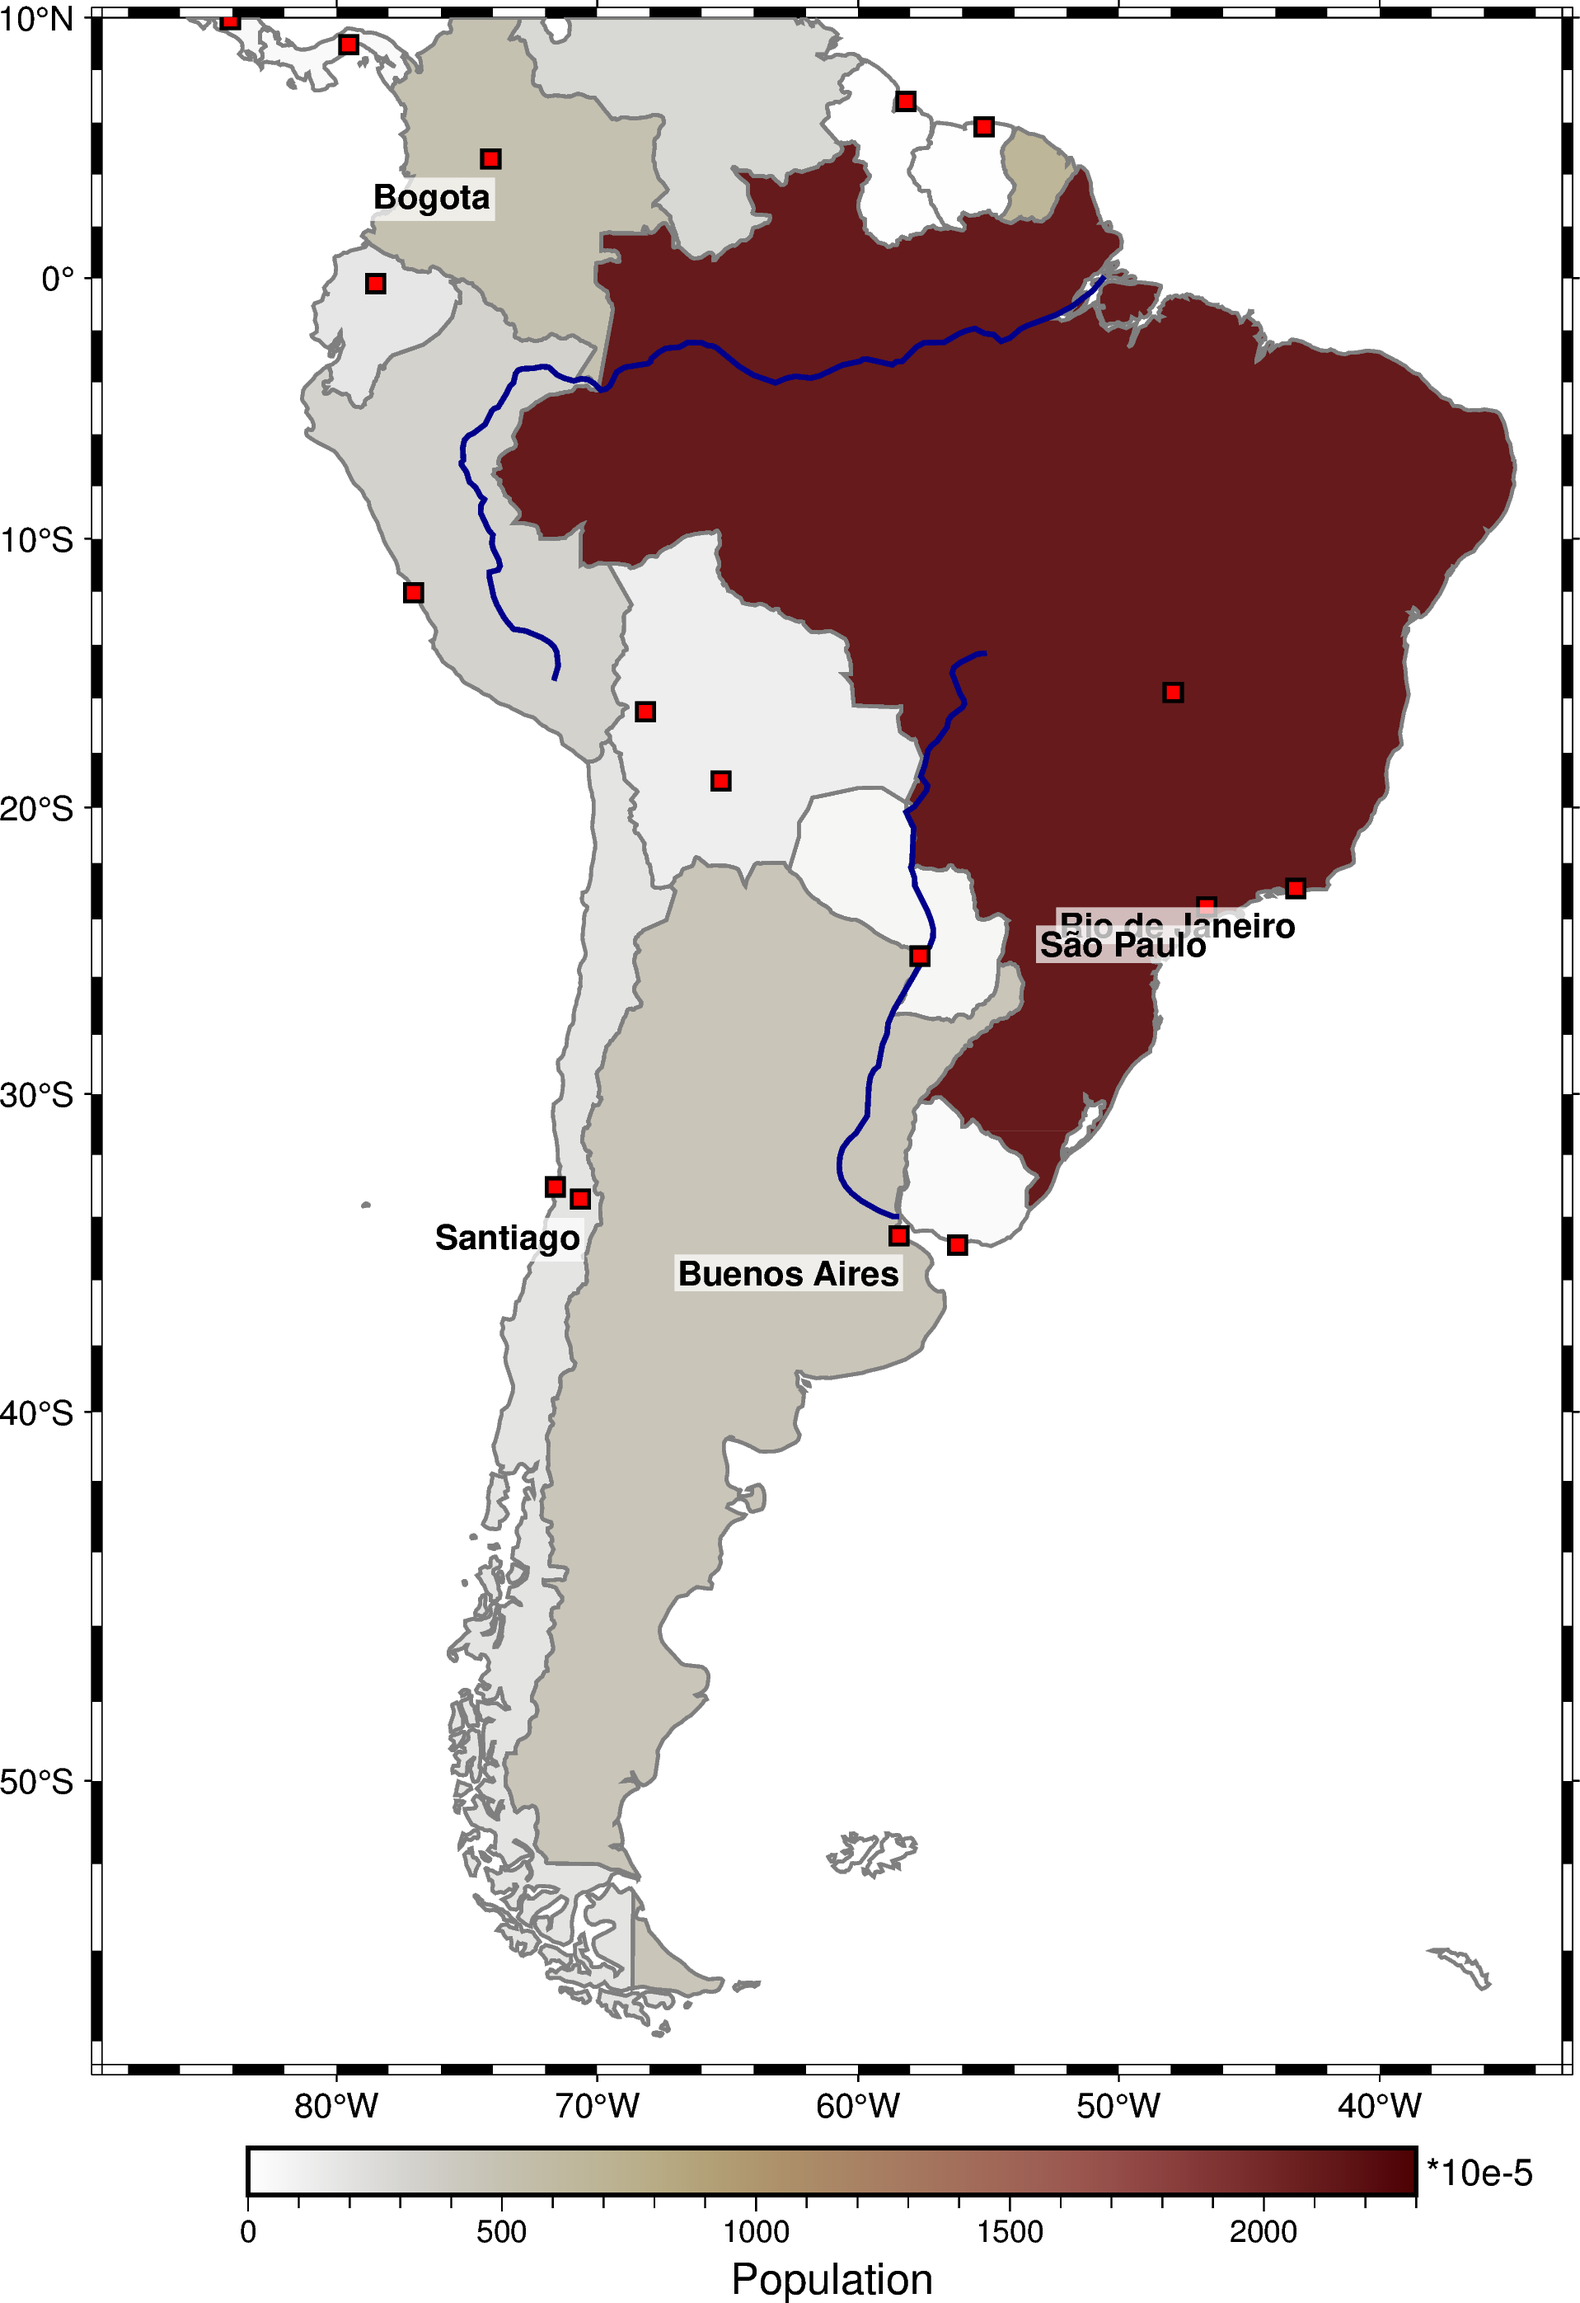
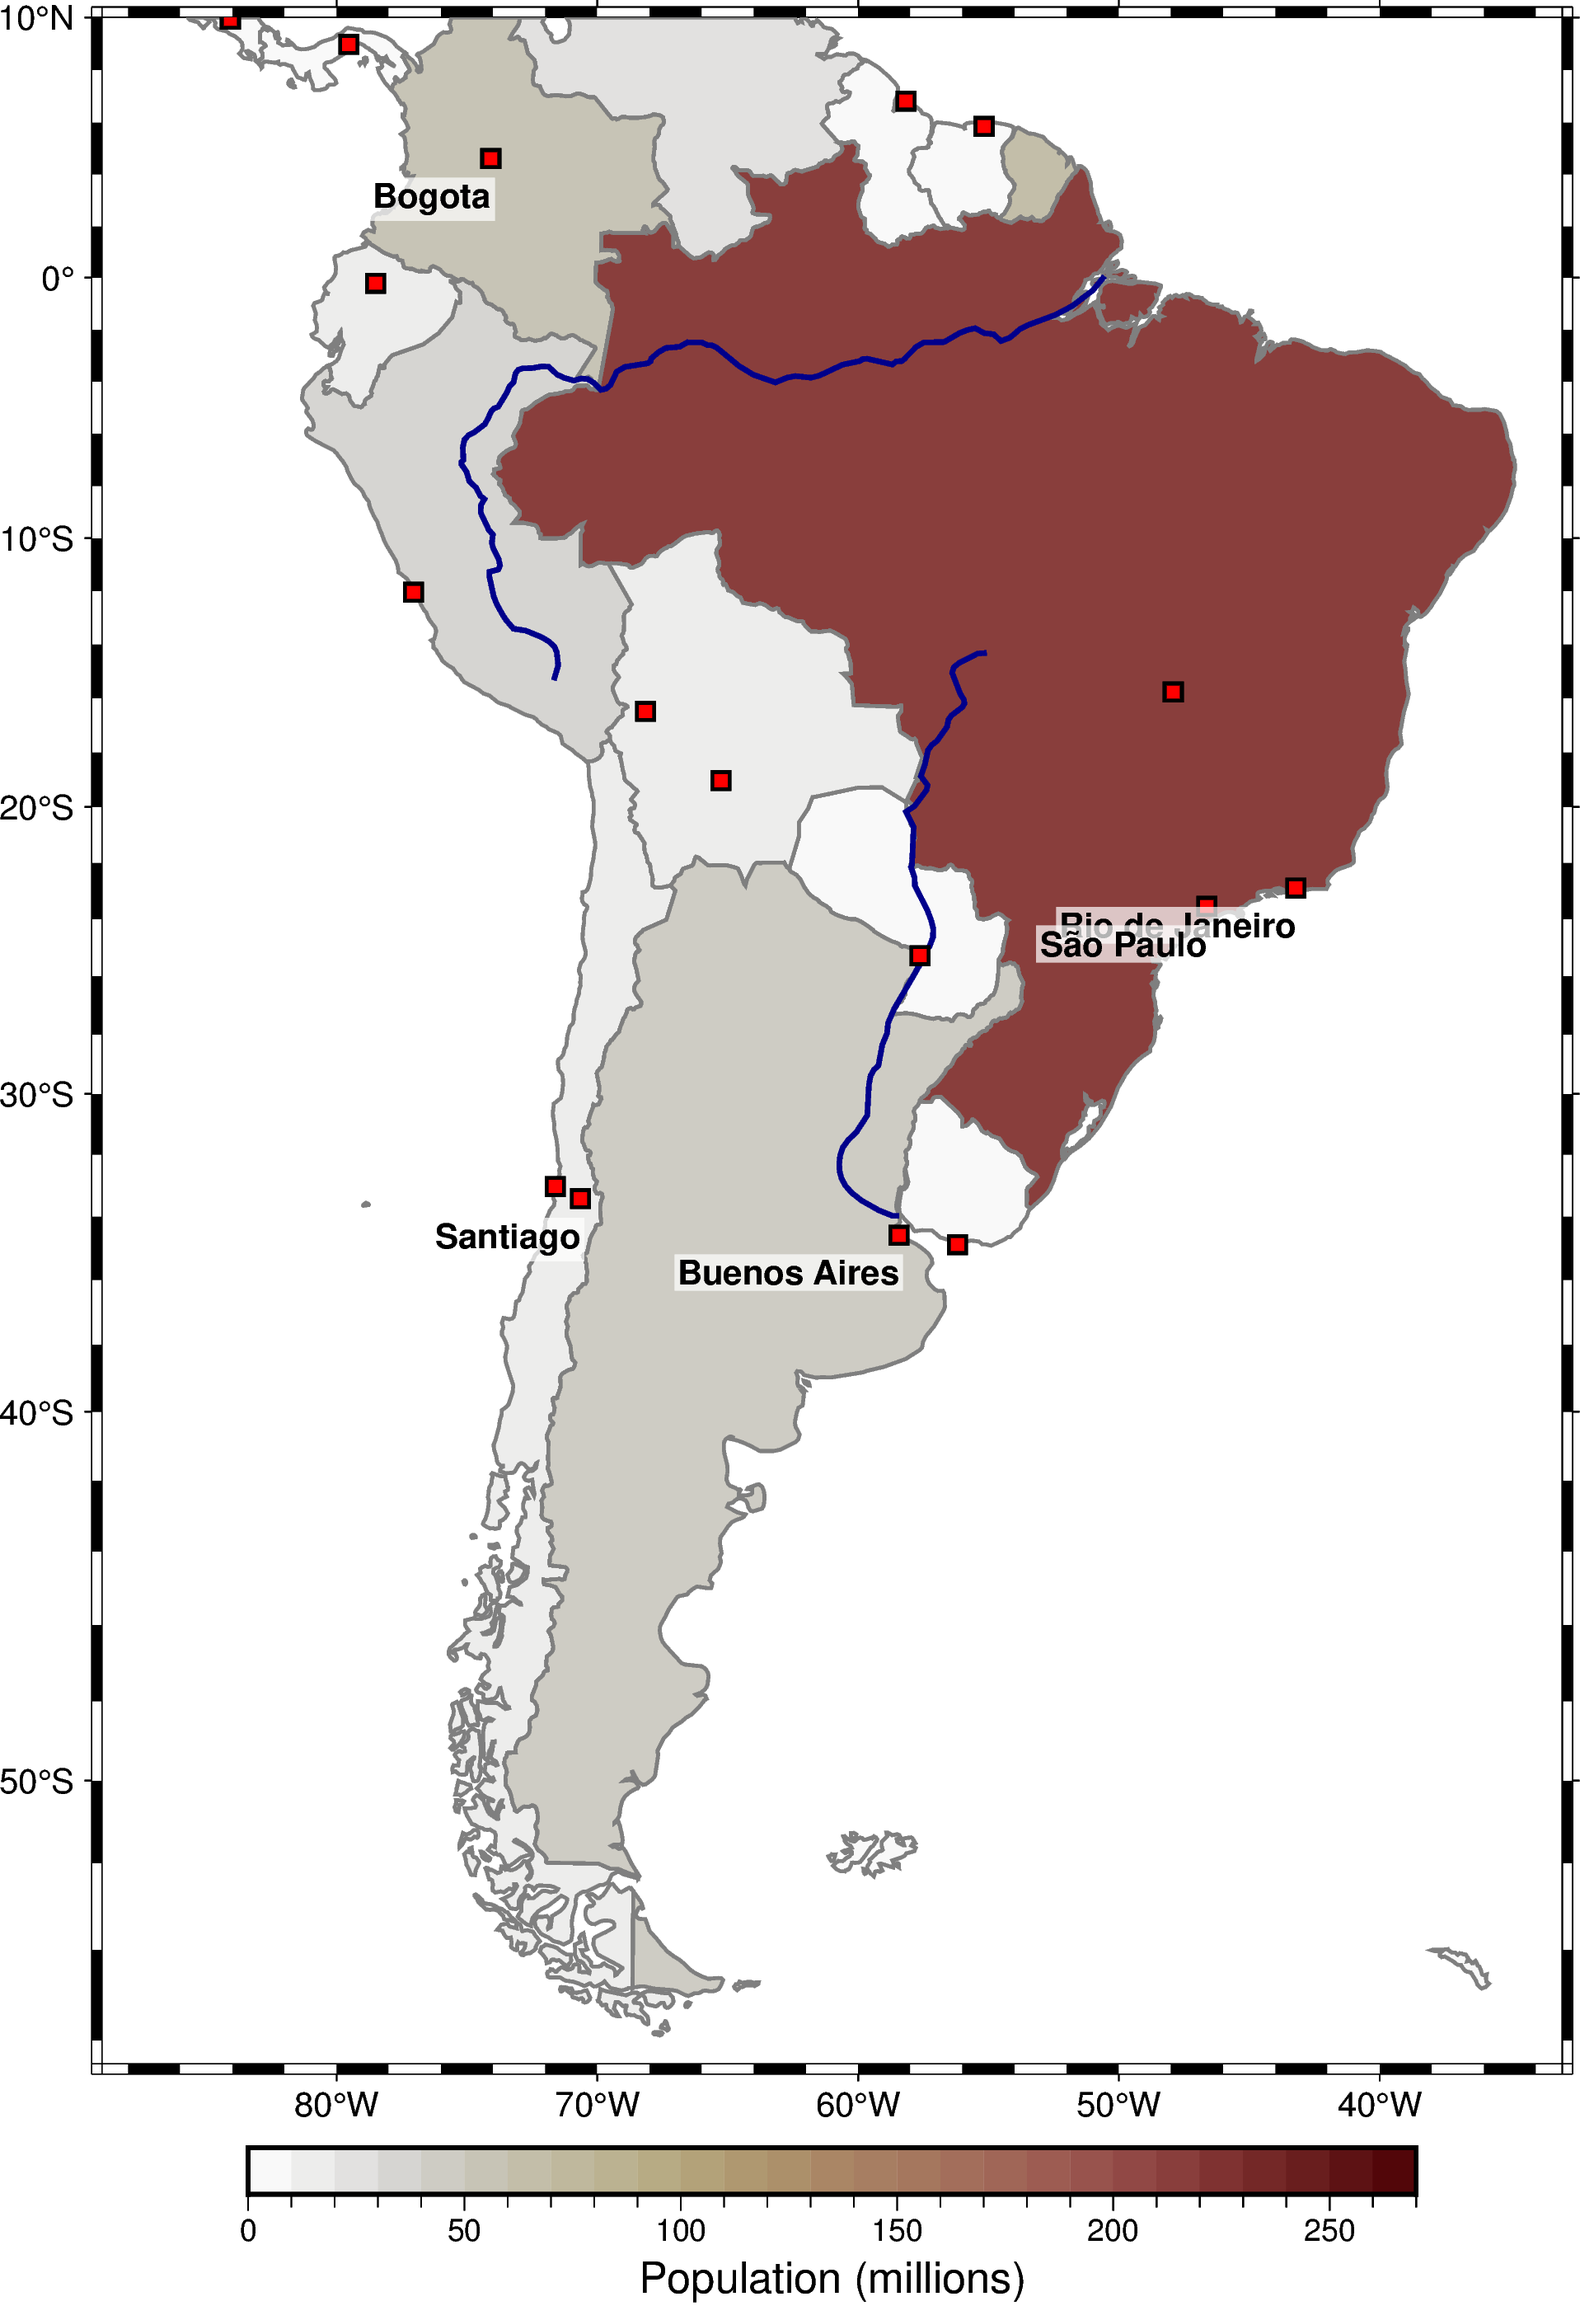
Use 1e-6

diff --git a/Fig7_PyGMT_geopandas.py b/Fig7_PyGMT_geopandas.py
@@ -6,7 +6,7 @@ rivers = gpd.read_file("https://naciscdn.org/naturalearth/110m/physical/ne_110m_
 cities = gpd.read_file("https://naciscdn.org/naturalearth/110m/cultural/ne_110m_populated_places_simple.zip")
 cities_mega = cities[cities["megacity"]==1]  # Focus on large cities
 cities_world = cities[cities["worldcity"]==1]
-world["POP_EST"] *= 1.0e-6
+world["POP_EST"] *= 1e-6
 
 for region, label in zip(
     [[-89, -33, -56.5, 10], [-13, 27, 33, 67], [-19.5, 53, -38, 37.5]],
@@ -15,7 +15,7 @@ for region, label in zip(
 
     fig = pygmt.Figure()
     fig.basemap(region=region, projection="M15c", frame=True)
-    pygmt.makecpt(cmap="bilbao", series=(0, 2300))
+    pygmt.makecpt(cmap="bilbao", series=(0, 270, 10))
     fig.plot(
         data=world[["POP_EST", "geometry"]],
         pen="1p,gray50",
@@ -23,7 +23,7 @@ for region, label in zip(
         cmap=True,
         aspatial="Z=POP_EST",
     )
-    fig.colorbar(frame=["x+lPopulation", "y+l*10e-5"])
+    fig.colorbar(frame="x+lPopulation (millions)")
     fig.plot(data=rivers["geometry"], pen="1.5p,darkblue")
     fig.plot(data=cities["geometry"], style="s0.25c", fill="red", pen="1p,black")
     fig.text(
